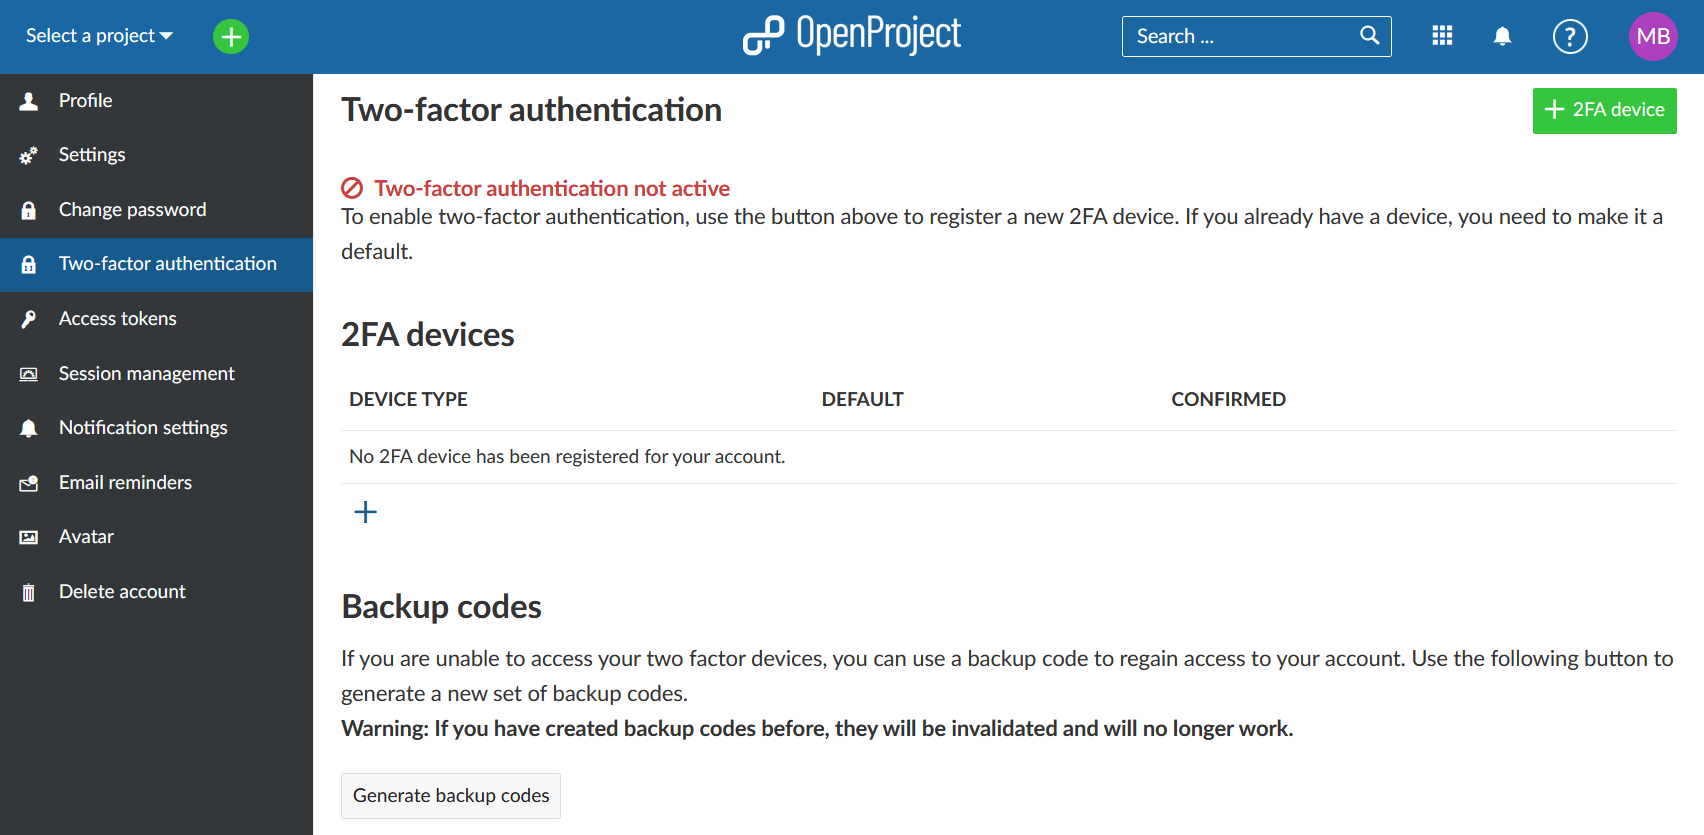
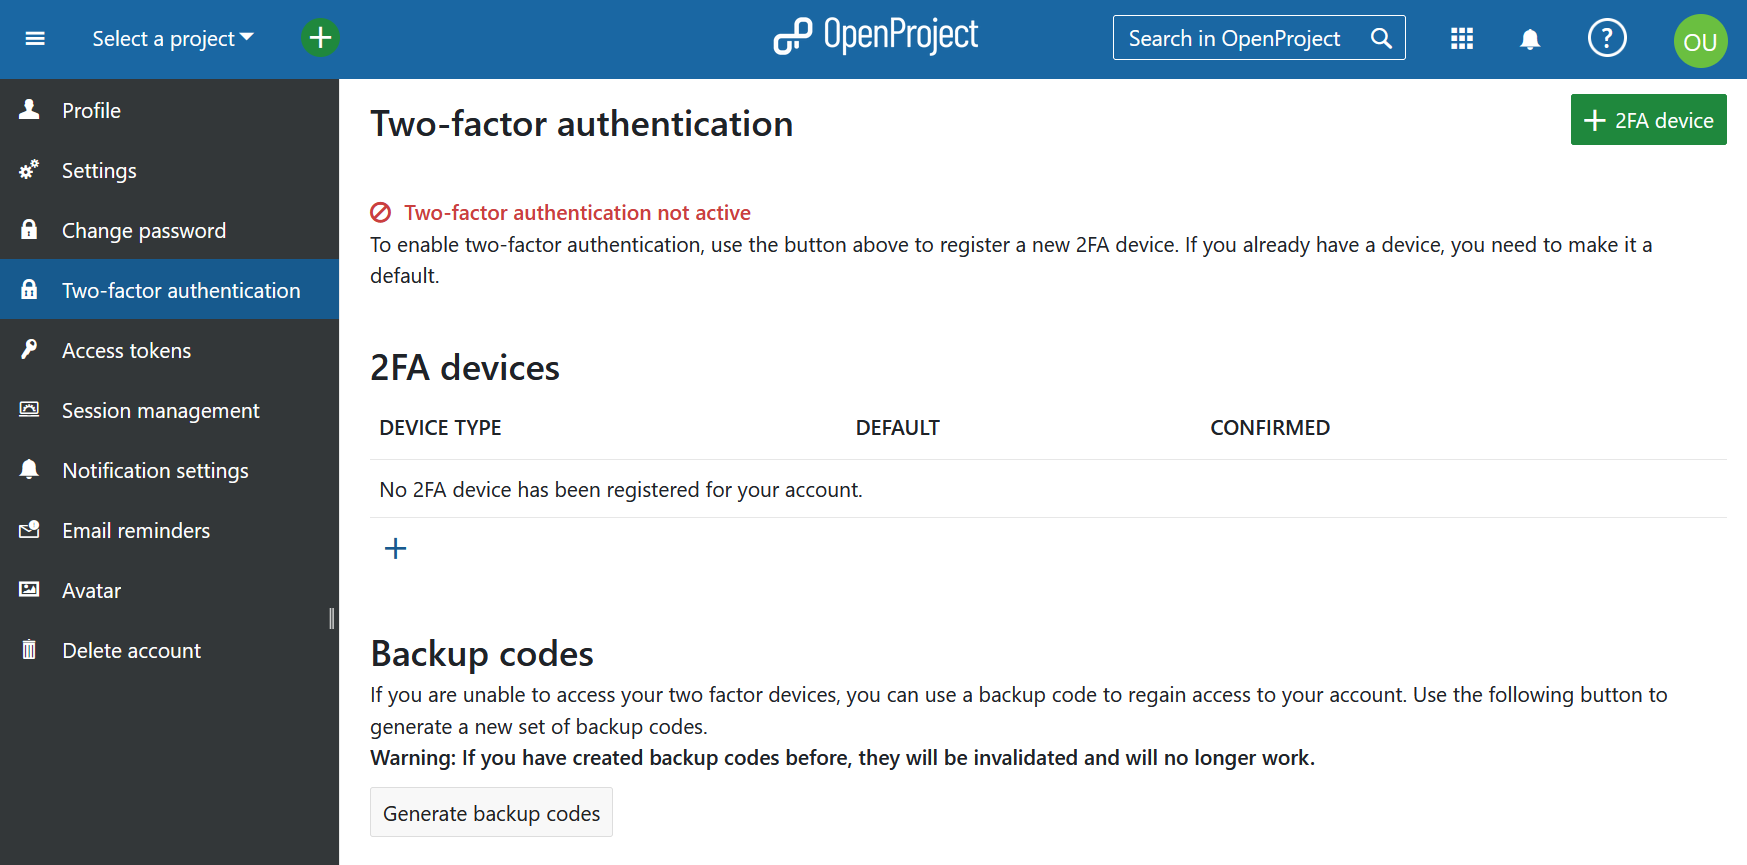
Update 2FA documentation
Adding WebAuth option to the user guide
Adding mobile option to the user guide
Exchanging screenshots to reflect latest primer changes

diff --git a/docs/getting-started/my-account/README.md b/docs/getting-started/my-account/README.md
@@ -104,21 +104,32 @@ Press the blue **Save** button in order to confirm the password changes.
 
 ## Two-factor authentication
 
-In order to activate the two-factor authentication for your OpenProject installation, navigate to your **My account** and choose the **Two-factor authentication** in the menu.
+In order to activate the two-factor authentication for your OpenProject installation, navigate to your **My account** and choose the **Two-factor authentication** in the menu. If you have not added any device yet, this list will be empty. 
 
 ![OpenProject my account two_factor authentication](openproject_my_account_two_factor_authentication.png)
 
-In order to register a new device for two-factor authentication, click the green button to add a **new 2FA device**.
+If you have already registered one or multiple 2FA devices, you will see the list of all activated 2FA devices here. You can change, which of them you prefer to have set a a default option.
+
+![List of all registered 2FA devices in OpenProject](openproject_my_account_2fa_overview.png)
+
+In order to register a new device for two-factor authentication, click the green button to add a **new 2FA device**. You will see the screen, where you will be able to see one or multiple of the following options, depending on what your system administrator has [activated for your instance](../../../system-admin-guide/authentication/two-factor-authentication/): 
+
+- Mobile phone
+- App-based authenticator
+- WebAuth
+
+![](openproject_my_account_authentication_options.png)
 
 To receive the second factor, you can use an authentication app on your mobile phone, such as Google Authenticator or Authy. You have to enter the code that is displayed in the authentication app to your login.
 
 You can remove or approve 2FA applications by confirming your password. Note that this applies only to internally authenticated users.
 
-### Backup codes
+### Use your mobile phone
 
-If you are unable to access your two-factor devices, you can use a backup code to regain access to your account. Use the grey button **Generate backup codes** to generate a new set of backup codes.
+You can use your mobile phone as a 2FA device. The field *Identifier* will be pre-filled out, you will need to add your phone number and click the green **Continue** button. 
 
-If you have created backup codes before, they will be invalidated and will no longer work.
+![Add a new mobile phone as a 2FA device in OpenProject](openproject_my_account_two_factor_authentication_mobile.png)
+
 
 ### Use your app-based authenticator
 
@@ -126,9 +137,23 @@ Register an application authenticator for use with OpenProject using the time-ba
 
 Click the grey **Register device** button to register an authentication app. Open your app and follow the instructions to add a new application. The easiest way is to scan the QR code. Otherwise, you can register the application manually by entering the displayed details.
 
-Click the blue **Continue** button to finish the registration.
+Click the green **Continue** button to finish the registration.
 
 ![openproject_my_account_authenticator_app](openproject_my_account_authenticator_app.png)
+
+### Use the WebAuth authentication
+
+Use Web Authentication to register a FIDO2 device (like a YubiKey) or  the secure enclave of your mobile device as a second factor. After you have chosen a name, you can click the green **Continue**  button. 
+
+![](openproject_my_account_authenticator_webauth.png)
+
+Your  browser will prompt you to present your WebAuthn device (depending on your operational system and your browser, your options may vary). When you have  done so, you are done registering the device.
+
+### Backup codes
+
+If you are unable to access your two-factor devices, you can use a backup code to regain access to your account. Use the grey button **Generate backup codes** to generate a new set of backup codes.
+
+If you have created backup codes before, they will be invalidated and will no longer work.
 
 ## Access tokens
 To view and manage your OpenProject access tokens navigate to **My account** and choose **Access tokens** from the menu. 
